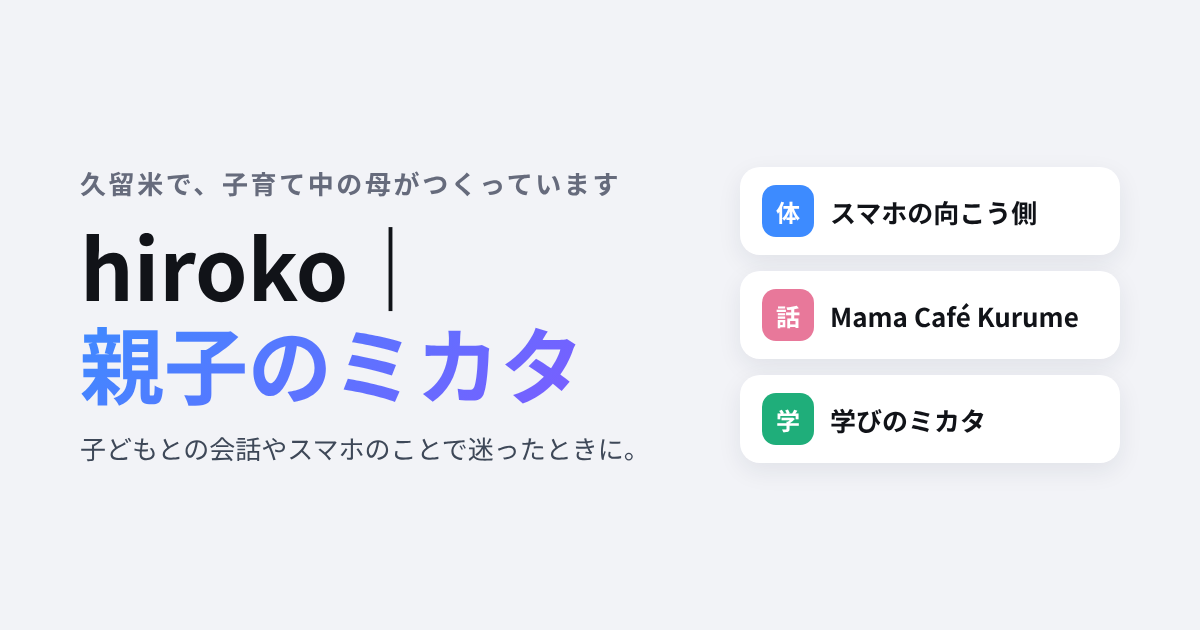
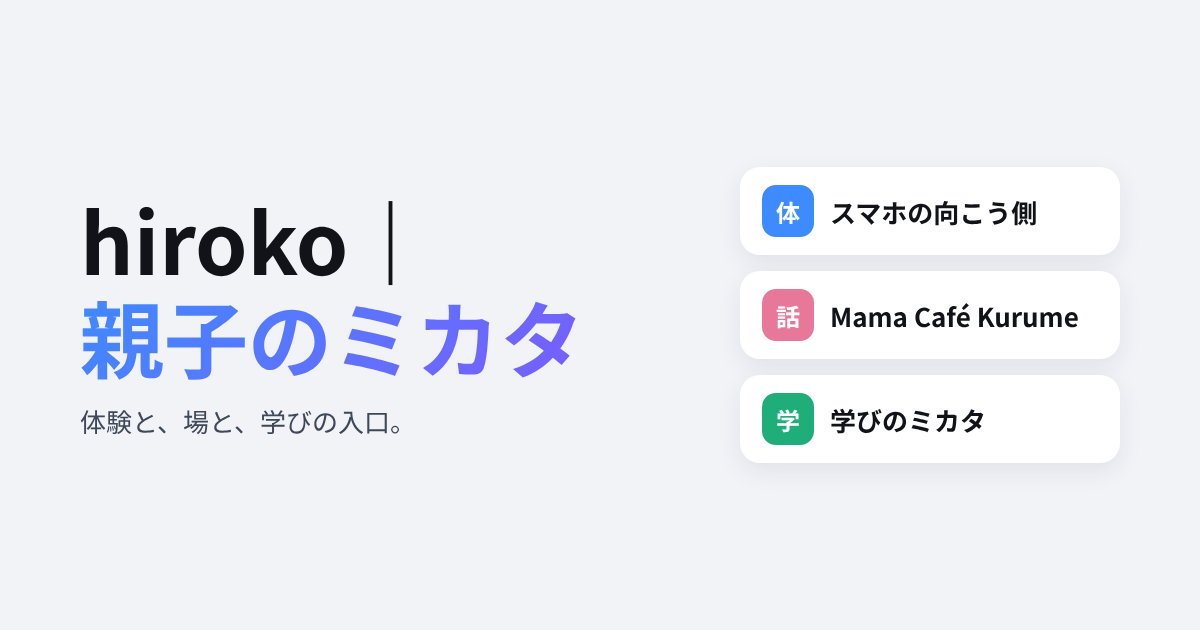
トップページの紹介文とシェア画像を更新
Claude-Session: https://claude.ai/code/session_01G5AkZAPxoiEAfqA7fJKhoJ

Changed region(s): [[0.0617, 0.2714, 0.5242, 0.754]]

diff --git a/index.html b/index.html
@@ -4,10 +4,10 @@
 <meta charset="utf-8">
 <meta name="viewport" content="width=device-width, initial-scale=1, viewport-fit=cover">
 <title>hiroko｜親子のミカタ</title>
-<meta name="description" content="久留米で子育て中の母、hirokoのページです。子どもたちのグループトーク体験「スマホの向こう側」、親どうしで話せるMama Café Kurume、中学生向け学習アプリ「学びのミカタ」の入口です。">
+<meta name="description" content="小中学生の子育て中の母、hirokoのページです。子どもたちのグループトーク体験「スマホの向こう側」、親どうしで話せるMama Café Kurume、中学生向け学習アプリ「学びのミカタ」の入口です。">
 <link rel="canonical" href="https://manabino-mikata.com/">
 <meta property="og:title" content="hiroko｜親子のミカタ">
-<meta property="og:description" content="スマホの向こう側／Mama Café Kurume／学びのミカタ。子育て中の母がつくっている、3つの入口です。">
+<meta property="og:description" content="スマホの向こう側／Mama Café Kurume／学びのミカタ。体験と、場と、学びの入口。">
 <meta property="og:type" content="website">
 <meta property="og:url" content="https://manabino-mikata.com/">
 <meta property="og:image" content="https://manabino-mikata.com/share.png">
@@ -63,9 +63,8 @@ footer{text-align:center;font-size:13px;color:var(--muted)}
 <body>
 <main>
   <header>
-    <div class="eyebrow">久留米で、子育て中の母がつくっています</div>
     <h1>hiroko<span class="bar">｜</span><span class="nm">親子のミカタ</span></h1>
-    <p class="intro">中学生の子を育てている母です。子どもとの会話やスマホのことで迷ったときに、ちょっと役に立つものを、少しずつつくっています。</p>
+    <p class="intro">小中学生の子育て中の母が、子ども目線、母親目線から、日々の生活にちょっと役に立つものを、少しずつつくっています。</p>
   </header>
 
   <nav class="doors" aria-label="活動の入口">
